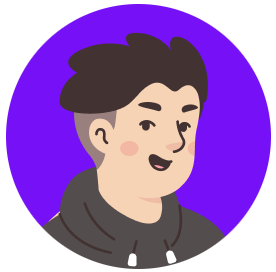
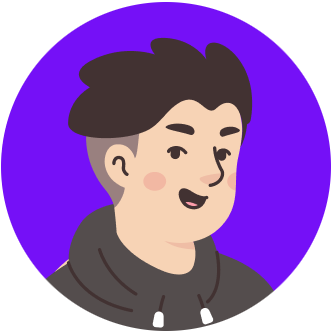
just a little easter egg ;)

diff --git a/src/sections/Hero.jsx b/src/sections/Hero.jsx
@@ -1,21 +1,61 @@
 import avatar from "../img/avatar.png";
+import avatar2 from "../img/avatar2.png";
 import { IoLocationSharp } from "react-icons/io5";
 import { motion } from "framer-motion";
+import { useEffect, useState } from "react";
+import ExitAnimation from "../components/ExitAnimation";
 
 function Hero() {
+  const [isClicked, setIsClicked] = useState(false);
+
+  useEffect(() => {
+    setTimeout(() => {
+      setIsClicked(false);
+    }, 3000);
+  }, [isClicked]);
+
   return (
-    <section id="home" className="w-full h-screen flex justify-center items-center text-center">
+    <section
+      id="home"
+      className="w-full h-screen flex justify-center items-center text-center"
+    >
       <div className="max-w-5xl flex flex-col items-center px-4">
         <h1 className="text-4xl md:text-5xl font-mono font-semibold">
-          Biacsi Ors, Frontend Developer
+          Ors Biacsi, Frontend Developer
         </h1>
         <div className="mt-5">
-          <p className="inline-block">Hello there, I'm an ambitious Frontend Developer from Hungary.</p>
+          <p className="inline-block">
+            Hello there, I'm an ambitious Frontend Developer from Hungary.
+          </p>
           <div className="text-3xl text-[#FF0000] inline-block ">
             <IoLocationSharp />
           </div>
         </div>
-        <motion.img whileHover={{scale: 1.1}} transition={{type: "spring", stiffness: 400, damping: 10}} className="mt-2 sm:mt-12" src={avatar} alt="avatar" />
+        <ExitAnimation>
+          {isClicked ? (
+            <motion.img
+              width={300}
+              height={300}
+              whileHover={{ scale: 1.05 }}
+              transition={{ type: "spring", stiffness: 400, damping: 15 }}
+              className="mt-2 sm:mt-12"
+              src={avatar2}
+              alt="avatar2"
+            />
+          ) : (
+            <motion.img
+              width={300}
+              height={300}
+              onClick={() => setIsClicked(true)}
+              whileHover={{ scale: 1.05 }}
+              whileTap={{ scale: 0.9 }}
+              transition={{ type: "spring", stiffness: 400, damping: 15 }}
+              className="mt-2 sm:mt-12"
+              src={avatar}
+              alt="avatar"
+            />
+          )}
+        </ExitAnimation>
       </div>
     </section>
   );

diff --git a/src/components/ExitAnimation.jsx b/src/components/ExitAnimation.jsx
@@ -2,7 +2,7 @@ import { AnimatePresence } from "framer-motion";
 
 function ExitAnimation({ children }) {
   return (
-    <AnimatePresence wait={true} onExitComplete={() => null}>
+    <AnimatePresence wait={true} >
       {children}
     </AnimatePresence>
   );
